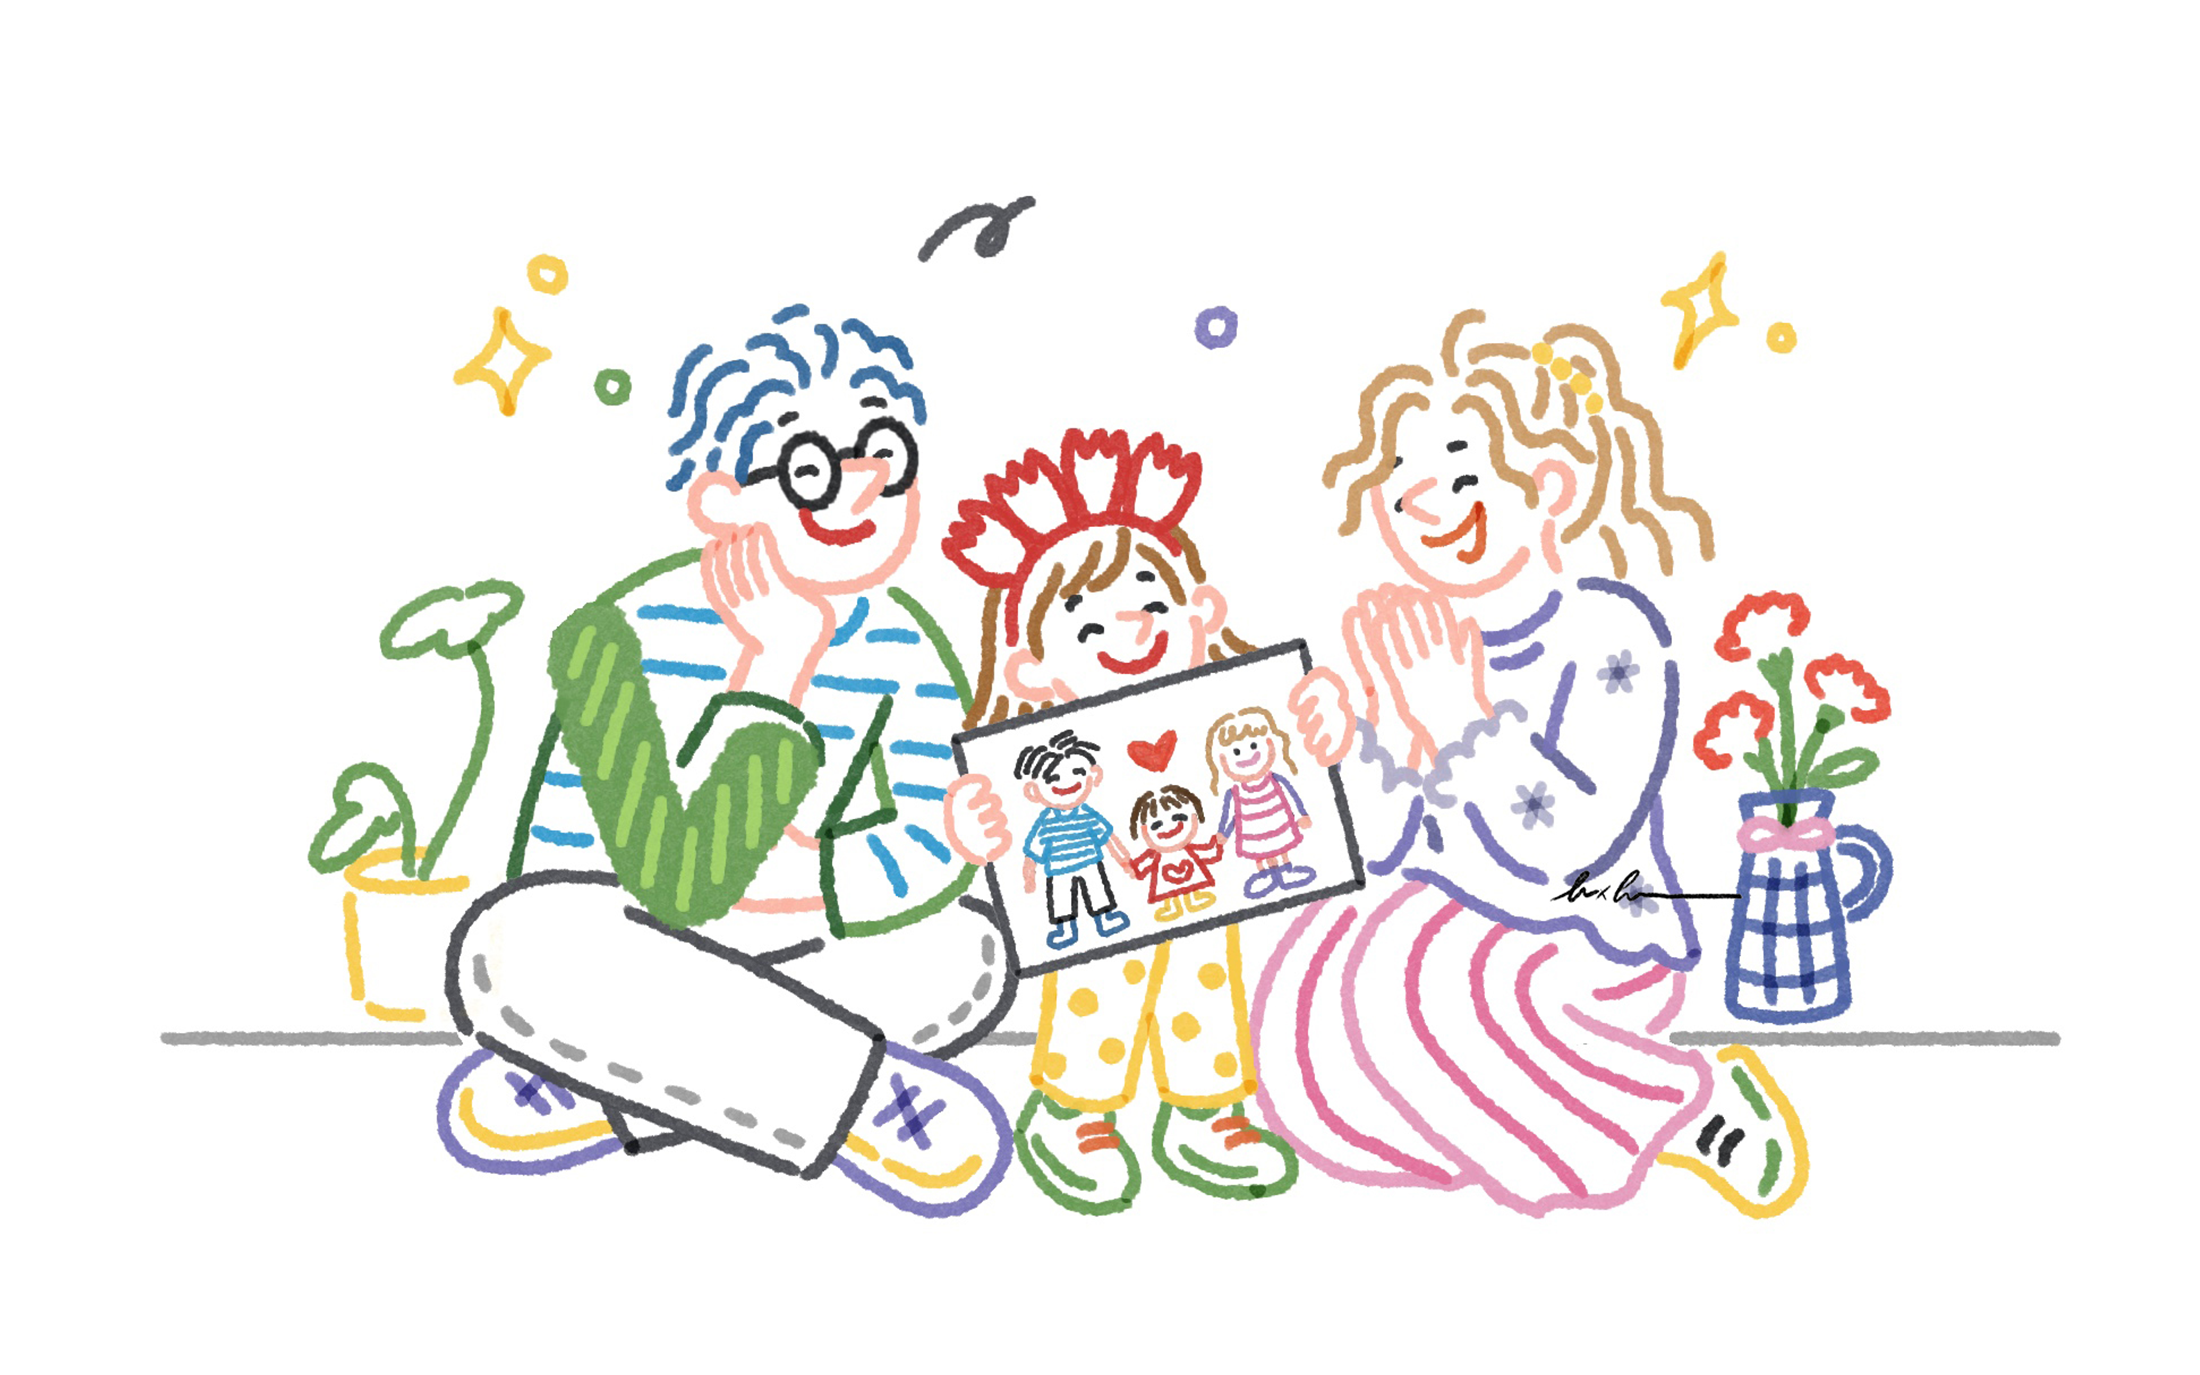
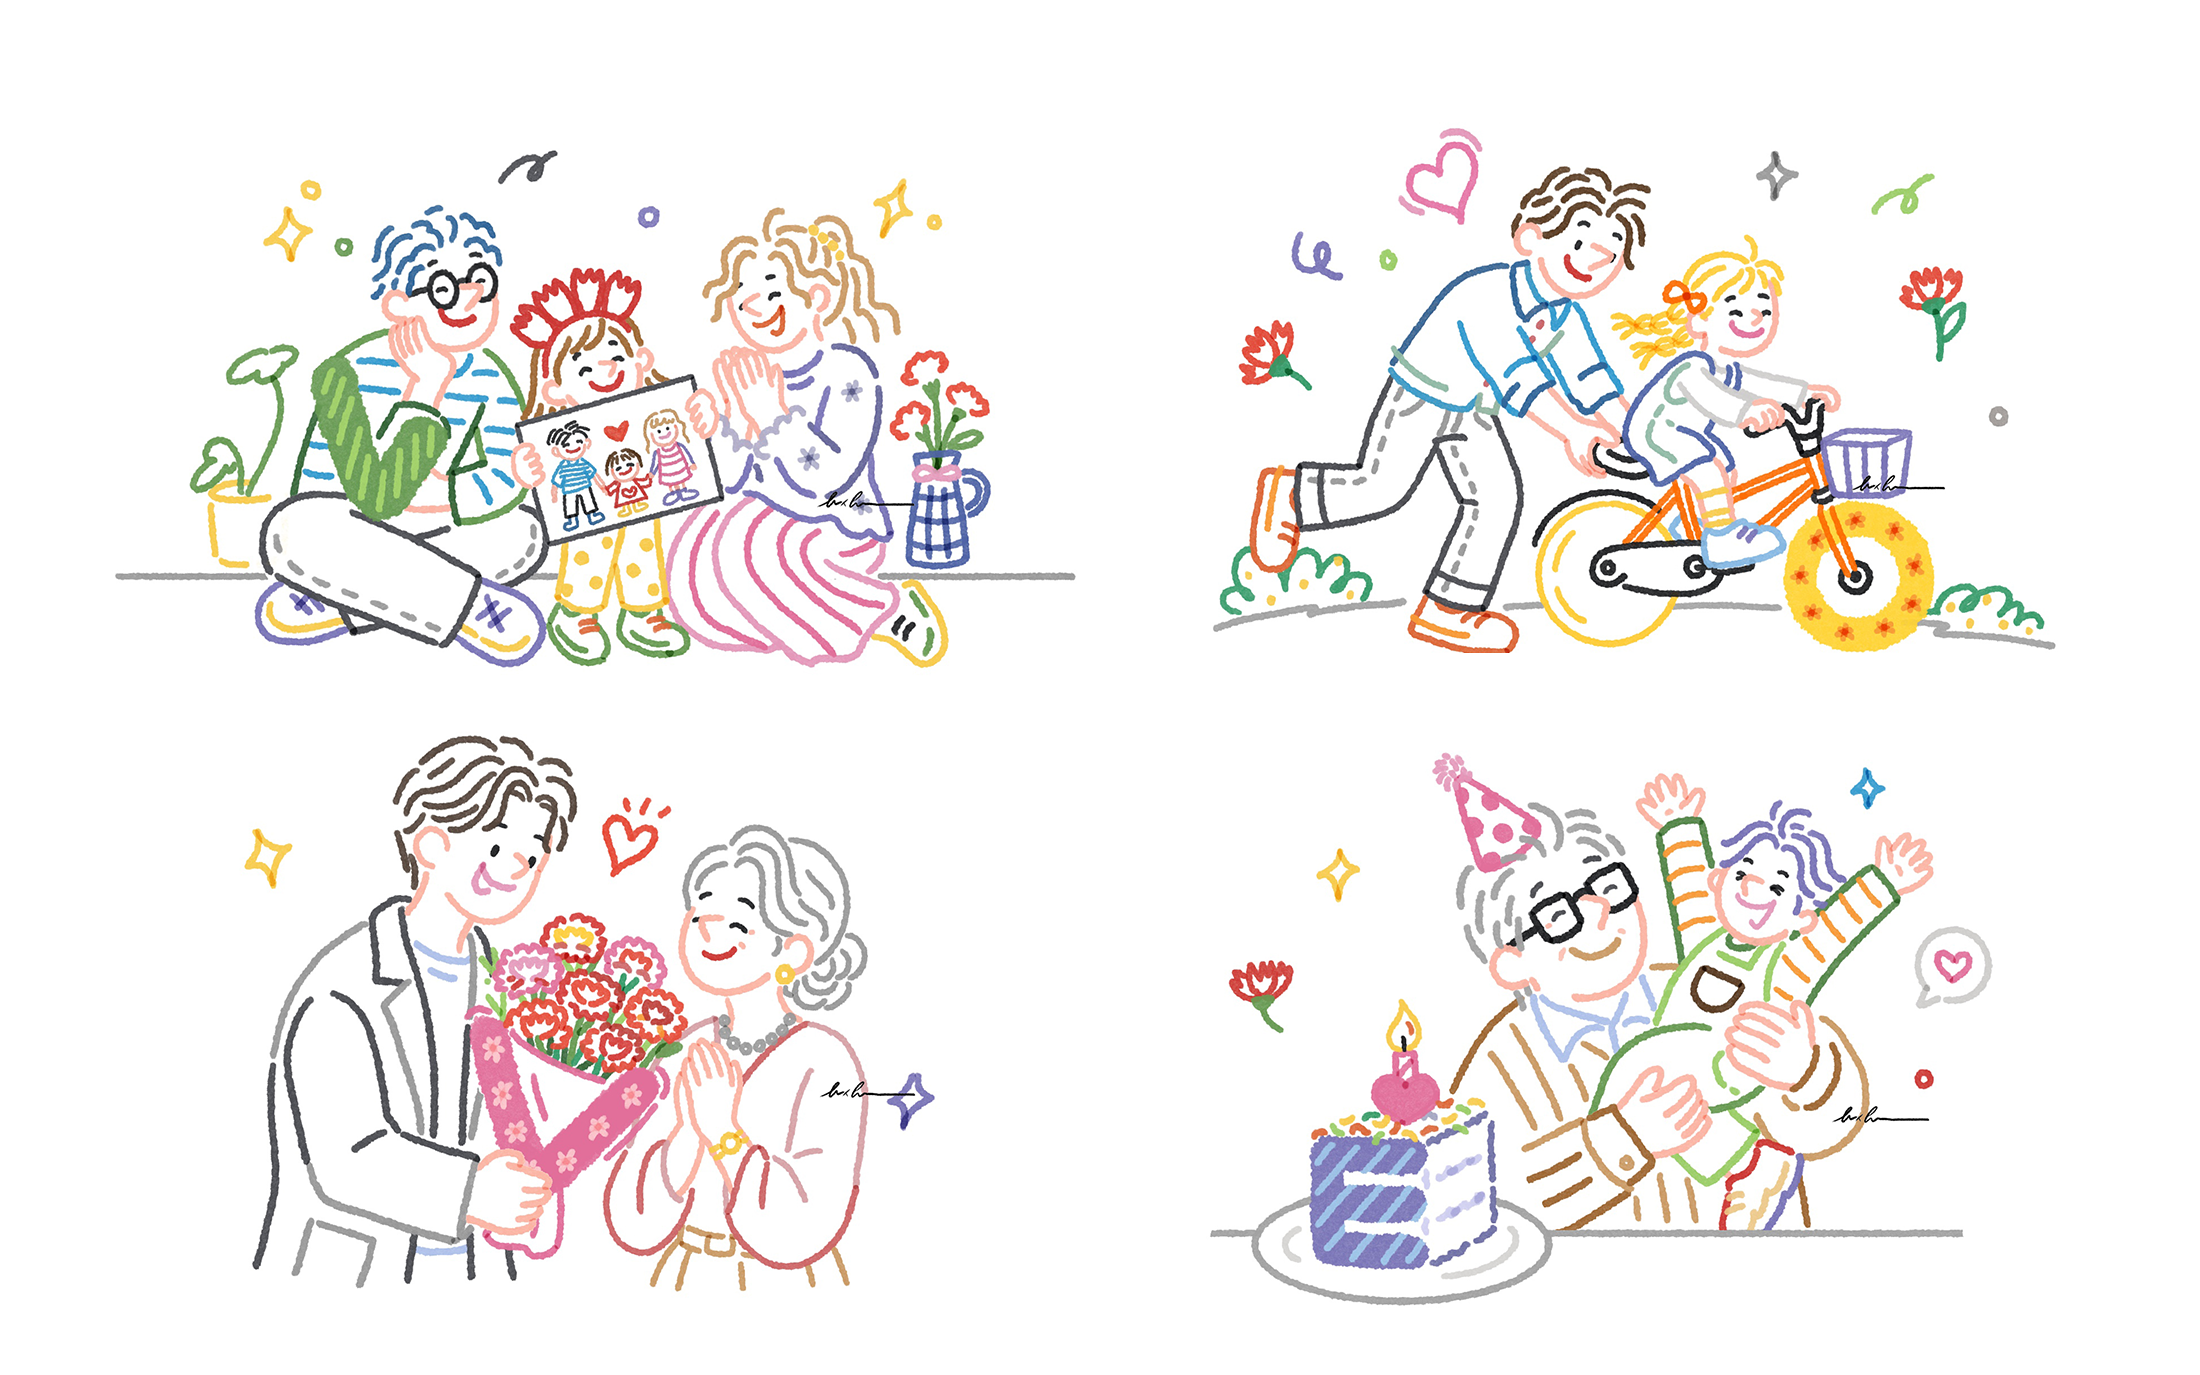
Update EBS project note and gallery images

diff --git a/src/App.tsx b/src/App.tsx
@@ -89,20 +89,17 @@ const projects = [
     title: "EBS Parents’ Day ID",
     description: "EBS 어버이날 ID 영상 일러스트레이션 / Illustration for EBS Parents’ Day ID",
     image: "/project-20.png",
+    detailImage: "/project-20-gallery-1.png",
     gallery: [
-      "/project-20-gallery-1.png",
       "/project-20-gallery-2.png",
       "/project-20-gallery-3.png",
-      "/project-20-gallery-4.png",
-      "/project-20-gallery-5.png",
-      "/project-20-gallery-6.png",
     ],
     size: "small",
     year: "2026",
     client: "EBS",
     projectType: "Broadcast ID Illustration",
     aboutEn: "I created the illustrations for EBS’s Parents’ Day ID, which aired on EBS TV and YouTube on May 8, 2026. The letters L.O.V.E are naturally woven into moments shared with family. May today be a day to share the LOVE you’ve been holding in your heart. 🌸 Happy Parents’ Day!",
-    aboutKo: "2026년 5월 8일 어버이날, EBS TV와 YouTube를 통해 방영된 어버이날 ID 영상의 일러스트를 제작했습니다. 가족과 함께하는 순간들 속에 L.O.V.E 글자가 자연스럽게 스며들도록 그렸습니다. 마음속에 담아두었던 사랑을 꺼내 전하는 하루가 되기를 바랍니다.🌸",
+    aboutKo: "2026년 5월 8일 어버이날, EBS TV와 YouTube를 통해 방영된 어버이날 ID 영상의 일러스트를 제작했습니다. 가족과 함께하는 순간들 속에 L.O.V.E 글자가 자연스럽게 스며들도록 그렸습니다. 담아두었던 LOVE를 꺼내보는 하루 되세요🌸 Happy Parents’ Day!",
   },
   {
     id: 3,
